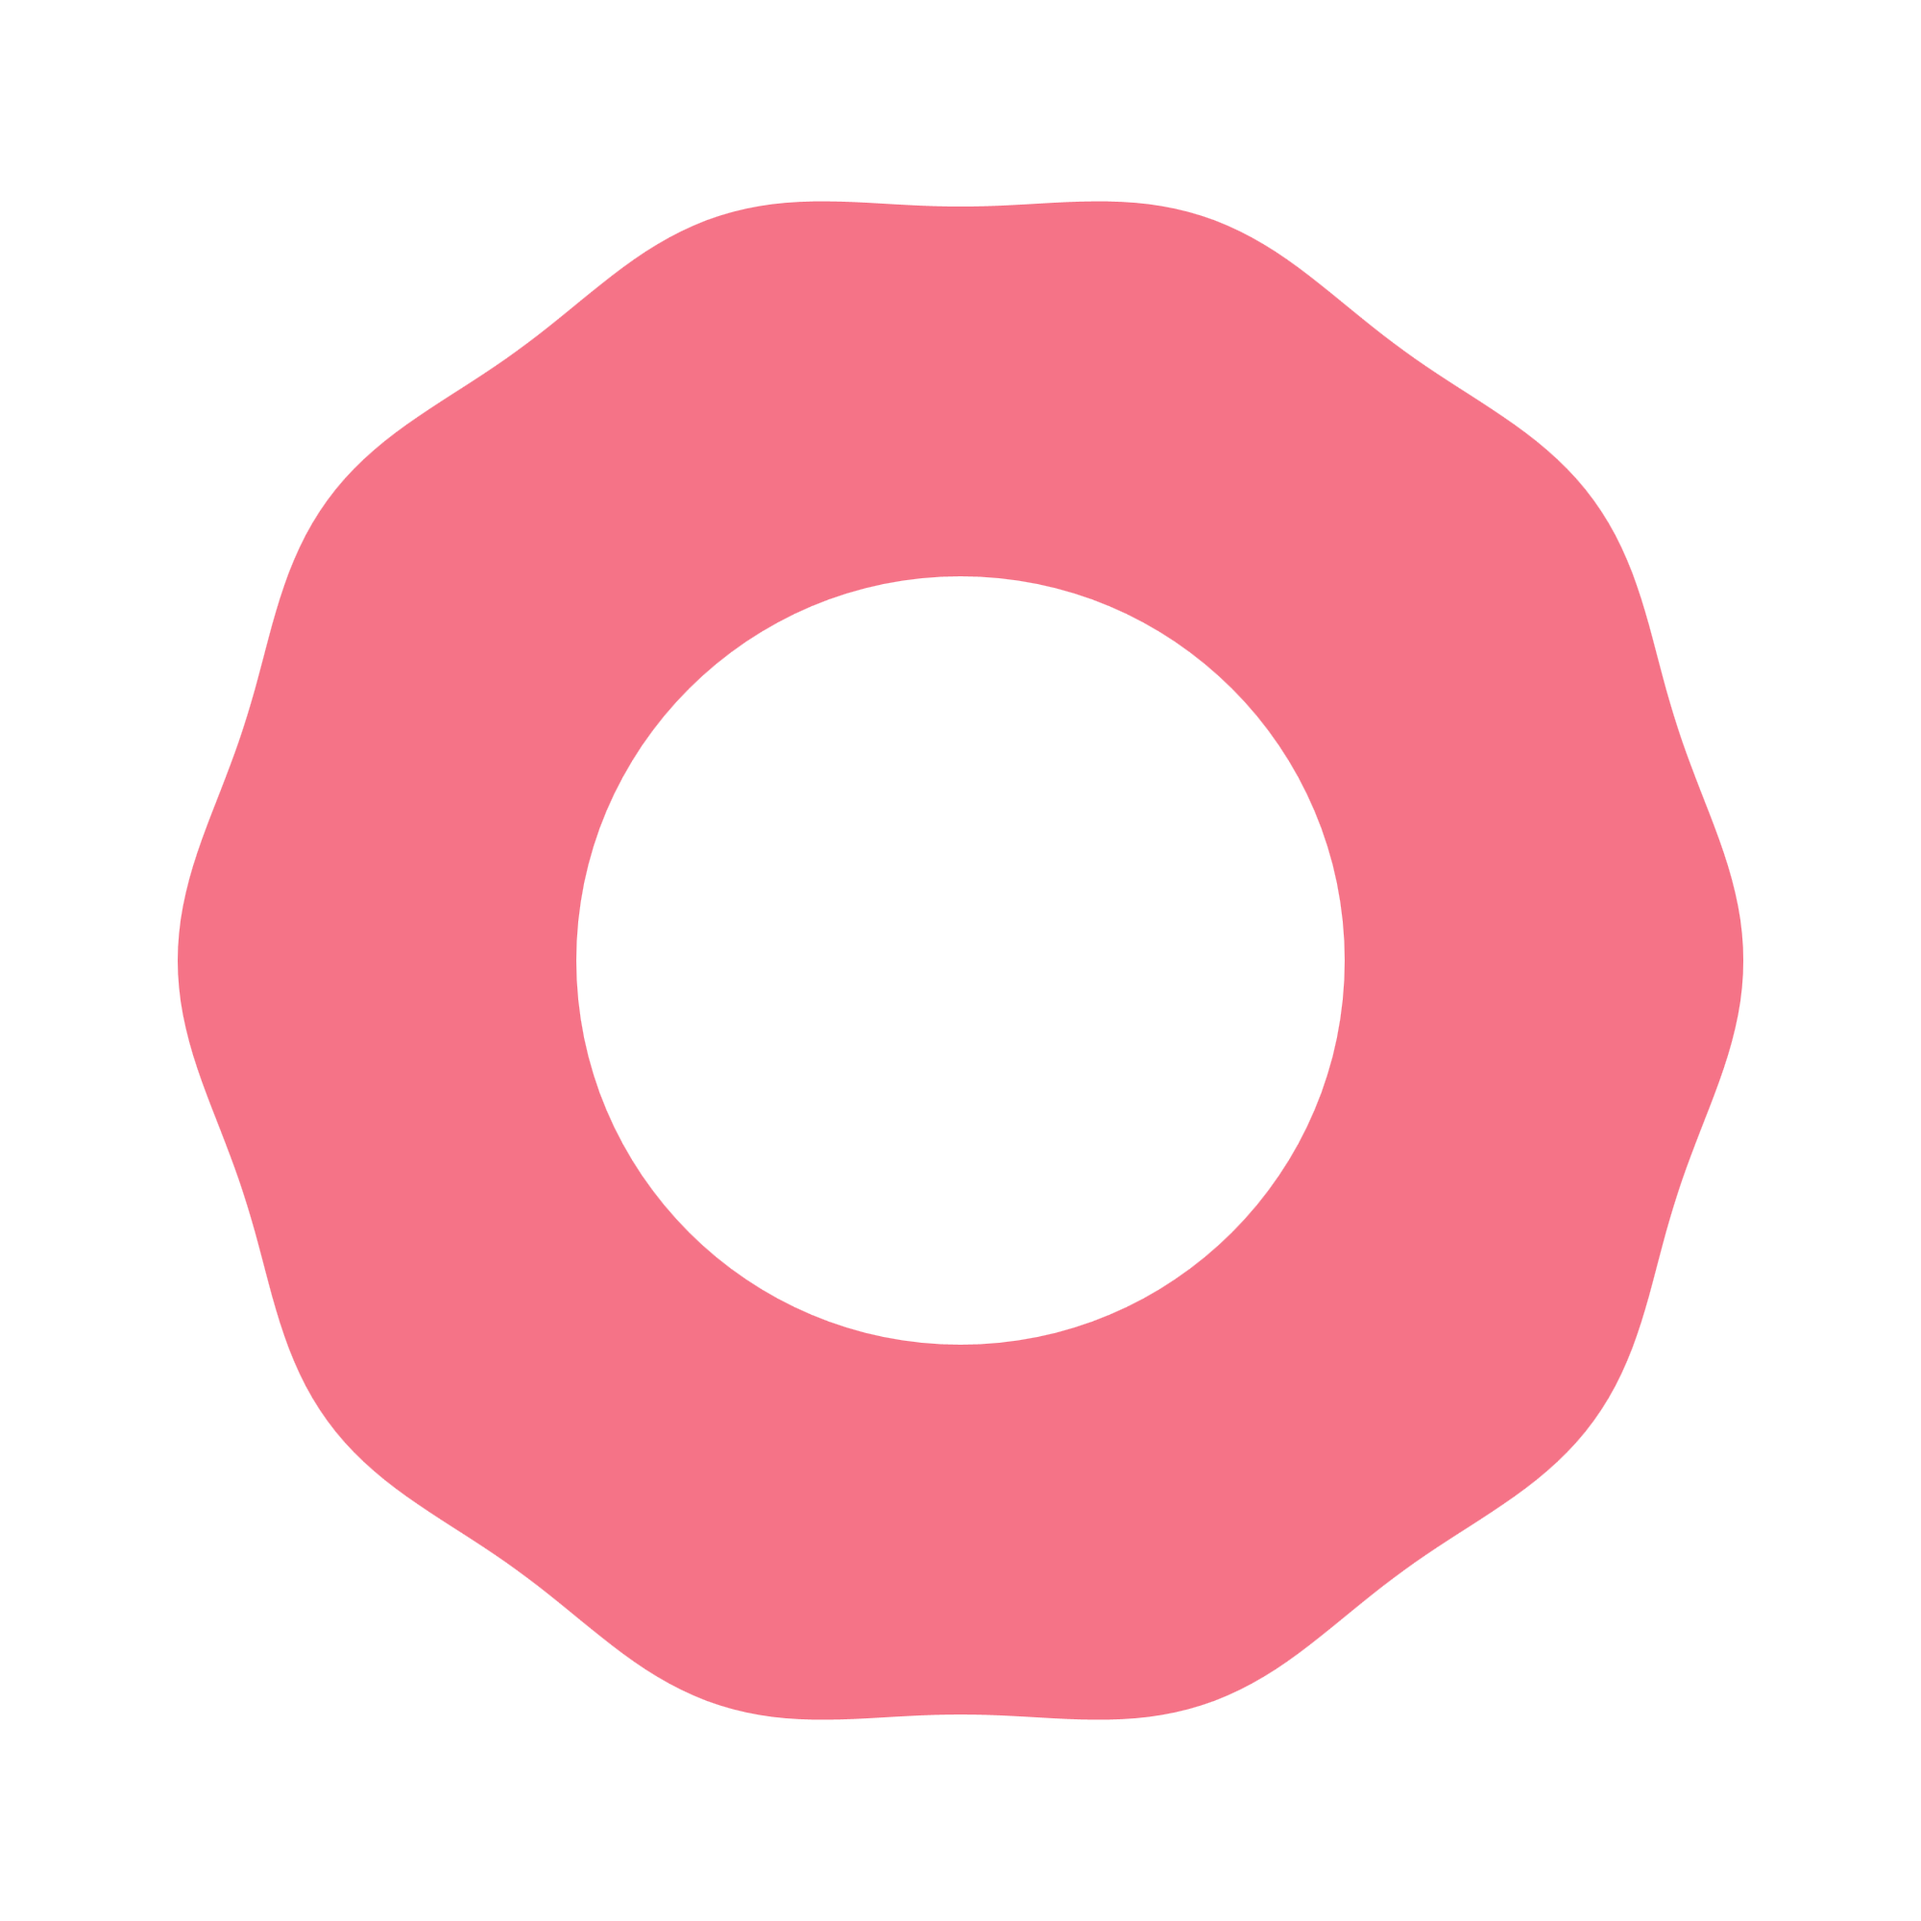
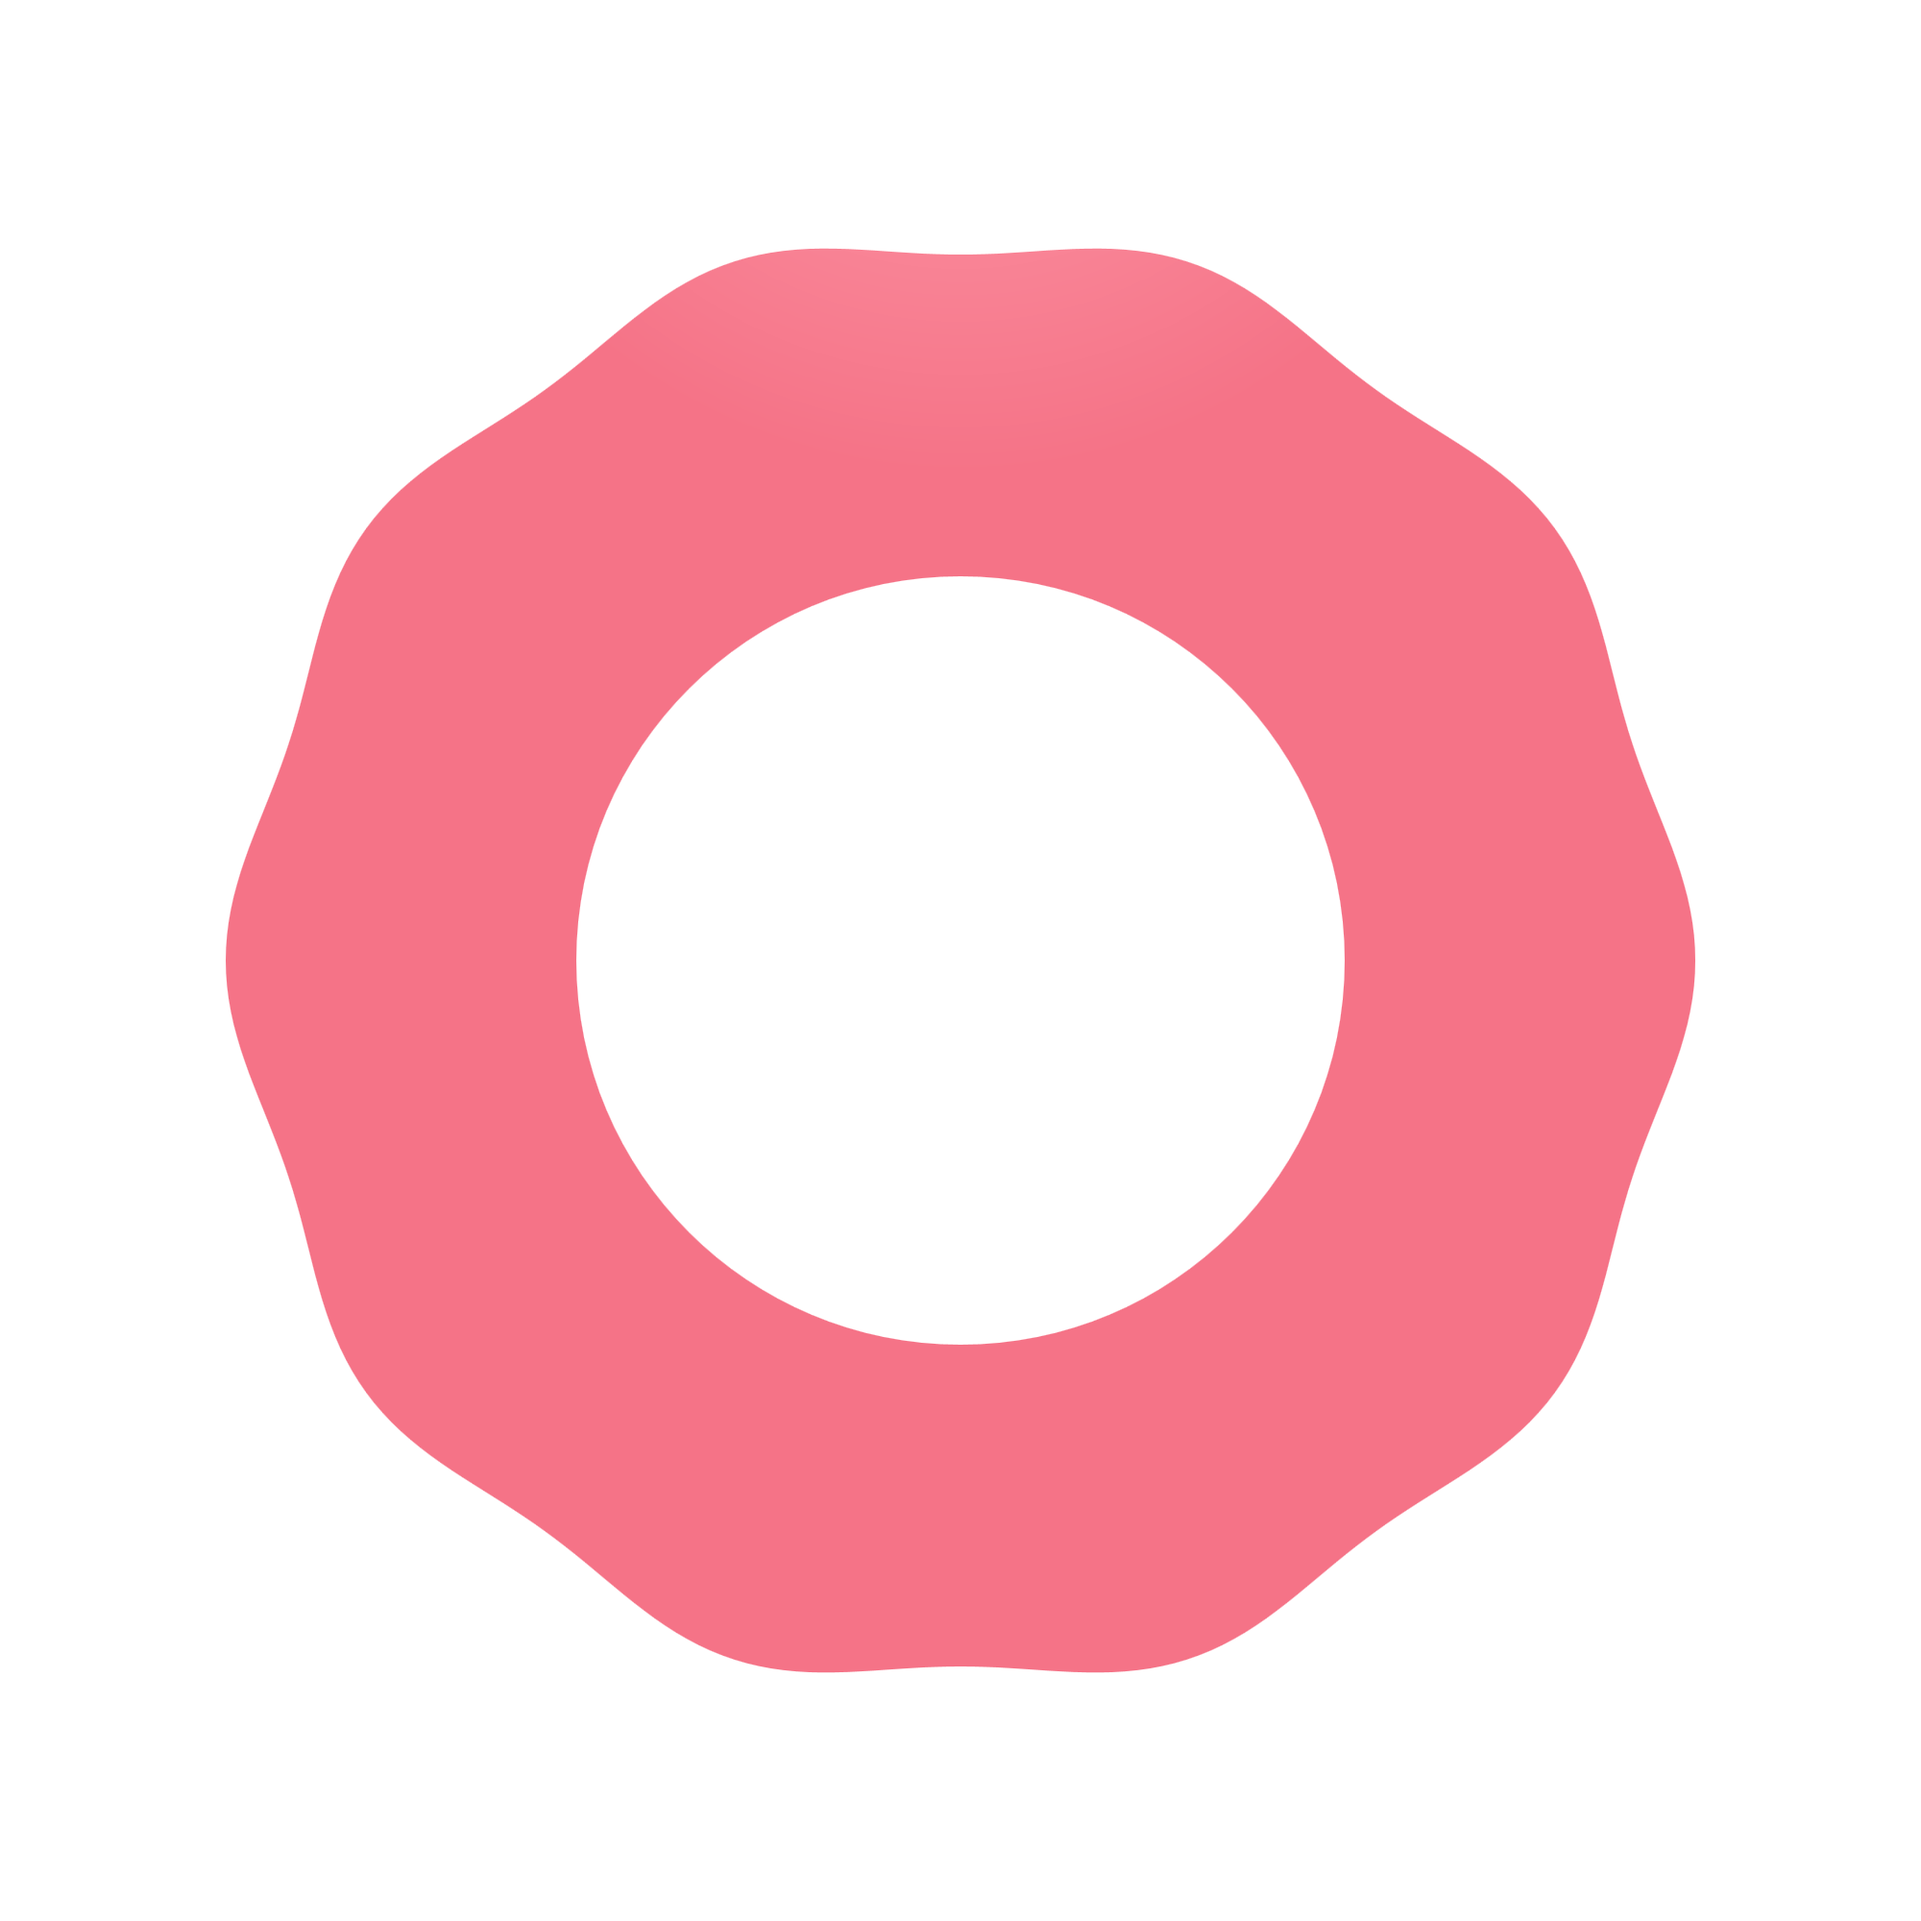
Added shooting star, made minor changes
Added shooting star
Updated bubble tea jump animation Added shadows and lighting to bubble tea, waves and shooting star
Updated planet shading
Adjusted boundaries

Changed region(s): [[0.093, 0.093, 0.93, 0.899]]

diff --git a/my_phenakistoscope.js b/my_phenakistoscope.js
@@ -10,7 +10,7 @@ function setup_pScope(pScope) {
   pScope.output_mode(ANIMATED_DISK);
   pScope.scale_for_screen(true);
   pScope.draw_layer_boundaries(false);
-  pScope.set_direction(CW); // Counter-clockwise
+  pScope.set_direction(CCW); // Counter-clockwise
   pScope.set_slice_count(SLICE_COUNT);
 
   // Load images and image sequences
@@ -20,7 +20,6 @@ function setup_pScope(pScope) {
   pScope.load_image('star-three', 'png');
   pScope.load_image('ice-cube', 'png');
   pScope.load_image('waves', 'png');
-  pScope.load_image('pearl', 'png');
 }
 
 function setup_layers(pScope) {
@@ -30,12 +29,17 @@ function setup_layers(pScope) {
   // Stars Layer
   let starsLayer = new PLayer(stars);
   starsLayer.mode(RING);
-  starsLayer.set_boundary(800, 1000);
+  starsLayer.set_boundary(750, 1000);
+
+  // Shooting Star Layer
+  let shootingStarLayer = new PLayer(shootingStar);
+  shootingStarLayer.mode(RING);
+  shootingStarLayer.set_boundary(800, 850);
 
   // Ice Cube Layer
   let iceCubeLayer = new PLayer(iceCube);
   iceCubeLayer.mode(RING);
-  iceCubeLayer.set_boundary(800, 1000);
+  iceCubeLayer.set_boundary(700, 800);
 
   // Planet Layer
   let planetLayer = new PLayer(planet);
@@ -45,12 +49,7 @@ function setup_layers(pScope) {
   // Waves Layer
   let wavesLayer = new PLayer(waves);
   wavesLayer.mode(RING);
-  wavesLayer.set_boundary(0, 800);
-
-  // // Pearl Layer
-  // let pearlLayer = new PLayer(pearl);
-  // pearlLayer.mode(SWIRL(1));
-  // pearlLayer.set_boundary(0, 500);
+  wavesLayer.set_boundary(0, 750);
 
   // Bubble Tea Layer
   let bubbleTeaLayer = new PLayer(bubbleTea);
@@ -80,7 +79,7 @@ function stars(x, y, animation, pScope) {
     if (currentFrame >= 0) {
       bgStarAlphaAmounts[0] = 2 * map(animation.frame, 0, 1, 150, 0);
     }
-    else if (currentFrame >= 6) {
+    if (currentFrame >= 6) {
       bgStarAlphaAmounts[0] = 2 * map(animation.frame, 0, 1, 0, 150);
     }
     bgStarAlphas[0] -= bgStarAlphaAmounts[0];
@@ -99,7 +98,7 @@ function stars(x, y, animation, pScope) {
     if (currentFrame >= 6) {
       bgStarAlphaAmounts[1] = 2 * map(animation.frame, 0, 1, 150, 0);
     }
-    else if (currentFrame >= 6) {
+    if (currentFrame >= 6) {
       bgStarAlphaAmounts[1] = 2 * map(animation.frame, 0, 1, 0, 150);
     }
     bgStarAlphas[1] -= bgStarAlphaAmounts[1];
@@ -176,7 +175,7 @@ function stars(x, y, animation, pScope) {
     if (currentFrame >= 0) {
       bgStarAlphaAmounts[0] = 2 * map(animation.frame, 0, 1, 150, 0);
     }
-    else if (currentFrame >= 6) {
+    if (currentFrame >= 6) {
       bgStarAlphaAmounts[0] = 2 * map(animation.frame, 0, 1, 0, 150);
     }
     bgStarAlphas[0] -= bgStarAlphaAmounts[0];
@@ -195,7 +194,7 @@ function stars(x, y, animation, pScope) {
     if (currentFrame >= 6) {
       bgStarAlphaAmounts[1] = 2 * map(animation.frame, 0, 1, 150, 0);
     }
-    else if (currentFrame >= 6) {
+    if (currentFrame >= 6) {
       bgStarAlphaAmounts[1] = 2 * map(animation.frame, 0, 1, 0, 150);
     }
     bgStarAlphas[1] -= bgStarAlphaAmounts[1];
@@ -285,7 +284,7 @@ function stars(x, y, animation, pScope) {
   // Center star
   push();
     // Declare styles
-    translate(0, -925);
+    translate(0, -940);
     scale(centerStarScale);
 
     // Draw image
@@ -313,6 +312,42 @@ function stars(x, y, animation, pScope) {
   pop();
 }
 
+// SHOOTING STAR FUNCTION
+function shootingStar(x, y, animation, pScope) {
+  // Only draw once
+  if (animation.frame == 0) {
+    // Declare style   
+    translate(x, y - 825);
+    drawingContext.shadowBlur = 10;
+    drawingContext.shadowColor = color(255);
+
+    // Tail
+    push();
+      // Declare styles
+      scale(1.2);
+      noStroke();
+      fill(255);
+
+      // Draw tail
+      beginShape();
+        vertex(50, 5);
+        bezierVertex(40, -5, -20, -10, -20, -5);
+        bezierVertex(-30, -5, -30, 5, -20, 0);
+        bezierVertex(-10, 2.5, 10, -5, 50, 5);
+      endShape();
+    pop();
+
+    // Head
+    push();
+      // Declare style
+      scale(0.06);
+
+      // Draw image
+      pScope.draw_image('star-three', -450, -50);
+    pop();
+  }
+}
+
 // ICE CUBE FUNCTION
 function iceCube(x, y, animation, pScope) {
   // Declare variables
@@ -321,8 +356,8 @@ function iceCube(x, y, animation, pScope) {
   let rightIceCubeY = map(animation.wave(1), 0, 1, 100, 0);
 
   // Declare styles
-  translate(0, -820);
-  scale(0.2);
+  translate(x, y - 760);
+  scale(0.175);
 
   // Left ice cube
   push();
@@ -367,7 +402,7 @@ function planet(x, y, animation, pScope) {
   push();
     // Declare style
     noStroke();
-    radialFillGradient(-400, -400, 400, 400, 400, 400, color(145, 210, 200), color(0, 215, 175));
+    radialFillGradient(0, -400, 0, 0, 100, 500, color(120, 240, 230), color(20, 140, 120));
 
     // Only draw once
     if (animation.frame == 0) {
@@ -387,7 +422,7 @@ function planet(x, y, animation, pScope) {
       beginShape();
         vertex(-500, 100);
         vertex(-500, 120);
-        bezierVertex(-200, 120, 200, 130, 500, 150);
+        bezierVertex(-200, 120, 200, 180, 500, 150);
         vertex(500, 100);
         bezierVertex(200, 120, -200, 100, -500, 100);
       endShape();
@@ -398,27 +433,14 @@ function planet(x, y, animation, pScope) {
       // Draw shadow
       fill(0, 50);
       beginShape();
-        vertex(500, -100);
+        vertex(500, 150);
         vertex(500, 500);
         vertex(-500, 500);
-        vertex(-500, 300);
-        bezierVertex(-400, 300, 300, 600, 400, -100);
+        vertex(-500, 150);
+        vertex(-400, 150);
+        bezierVertex(-100, 400, 100, 400, 400, 150);
       endShape();
     }
-  pop();
-}
-
-// PEARL FUNCTION
-function pearl(x, y, animation, pScope) {
-  push();
-    // Scale from 0.1x to 1x
-    scale(map(animation.frame, 0, 1, 0.1, 1));
-
-    // Rotate from 0 to 360 degrees
-    rotate(animation.frame * 360);
-    
-    // Draw image
-    pScope.draw_image('pearl', x, y);
   pop();
 }
 
@@ -426,14 +448,34 @@ function pearl(x, y, animation, pScope) {
 function bubbleTea(x, y, animation, pScope) {
   push();
     // Declare variable
-    let bubbleTeaY = y - map(animation.wave(1), 0, 1, 0, 200);
+    let currentFrame = floor(map(animation.frame, 0, 1, 0, 12));
+    let bubbleTeaY = 0;
+    let shadowSize = 1;
+    
+    // Calculate bubbleTeaY and shadowSize value for each frame
+    if (currentFrame > 3 && currentFrame <= 6) {
+      bubbleTeaY = 2 * map(animation.frame, 0, 1, 0, -200);
+      shadowSize = map(animation.frame, 0, 1, 1, 0.1);
+    }
+    if (currentFrame > 6 && currentFrame < 9) {
+      bubbleTeaY = 2 * map(animation.frame, 0, 1, -200, 0);
+      shadowSize = map(animation.frame, 0, 1, 0.25, 1);
+    }
 
     // Declare styles
-    translate(0, -525);
+    translate(x, y - 525);
     scale(0.6);
+    noStroke();
+    fill(0, 25);
+
+    // Draw shadow
+    push();
+      scale(shadowSize, 1);
+      ellipse(0, 235, 175, 50);
+    pop();
 
     // Draw image sequence
-    pScope.draw_image_from_sequence('bubble-tea', x, bubbleTeaY, animation.frame);
+    pScope.draw_image_from_sequence('bubble-tea', 0, bubbleTeaY, animation.frame);
   pop();
 }
 
